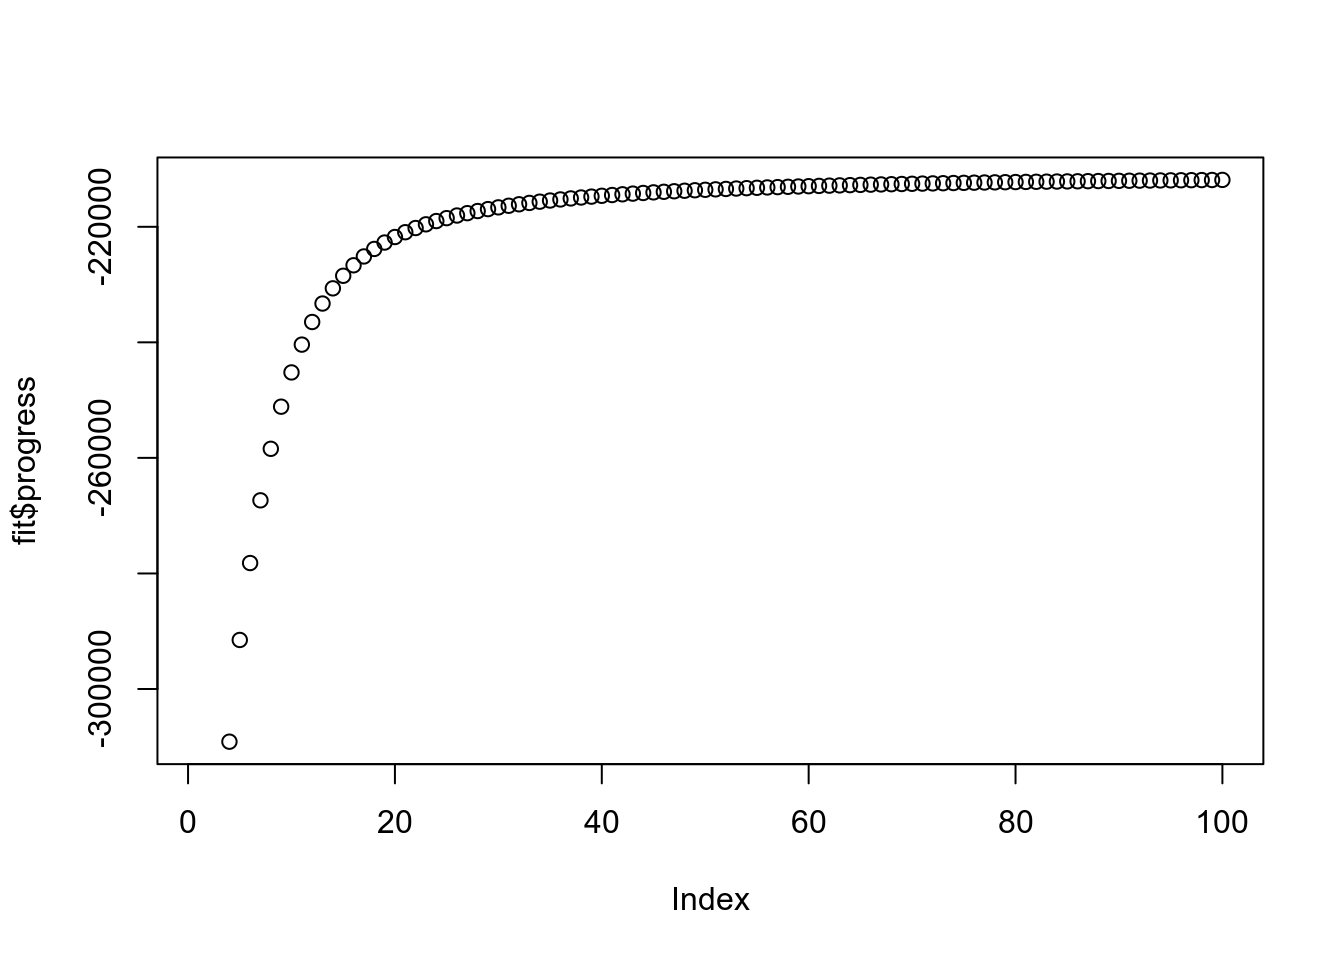
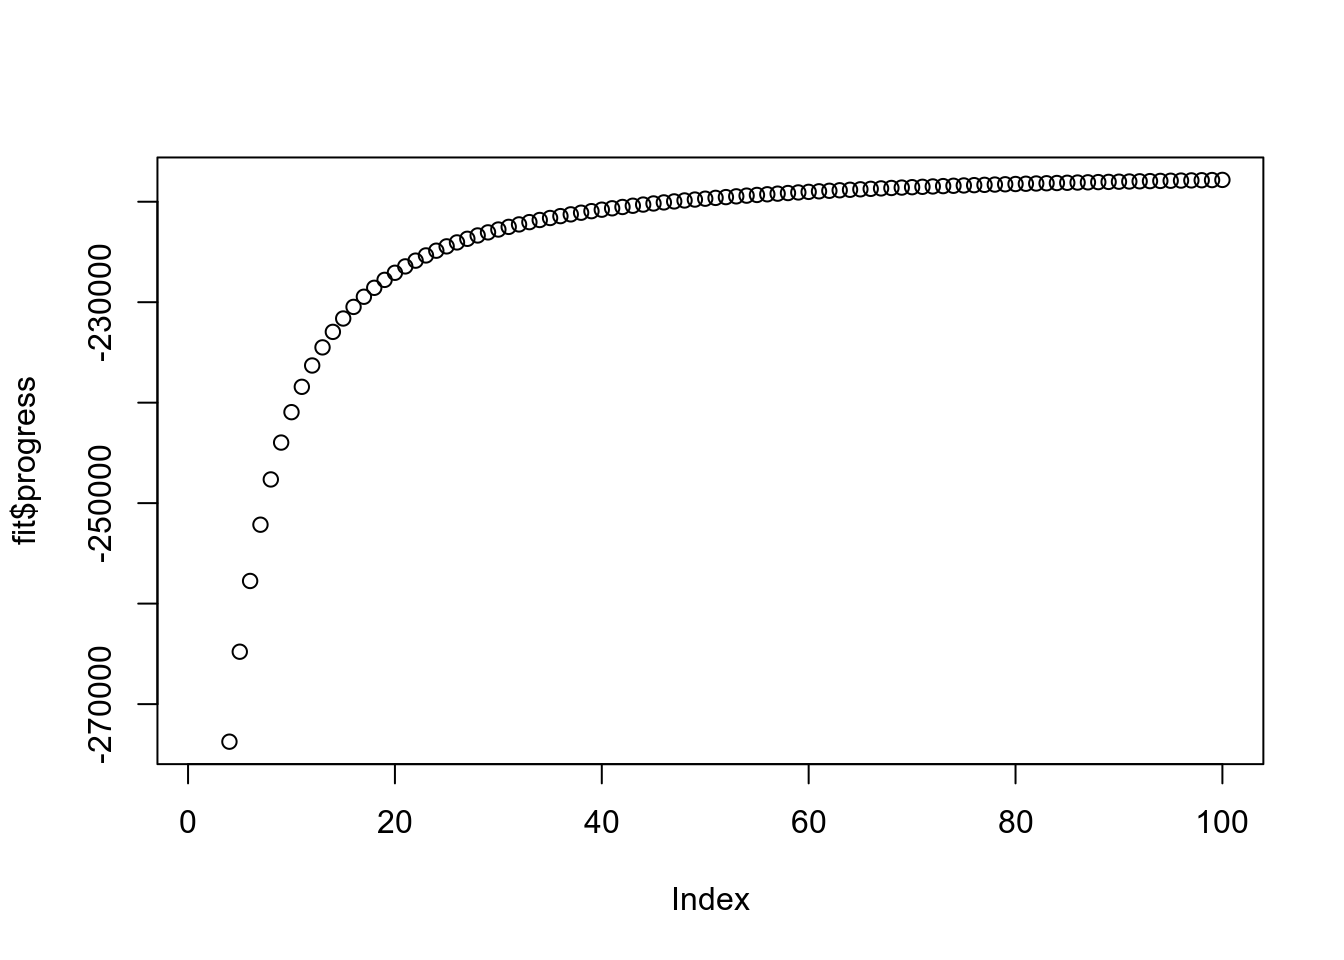
Build site.

diff --git a/docs/experiment_ebpm_bg_kos.html b/docs/experiment_ebpm_bg_kos.html
@@ -394,7 +394,7 @@ div.section {
 
 <p>
 <button type="button" class="btn btn-default btn-workflowr btn-workflowr-report" data-toggle="collapse" data-target="#workflowr-report">
-<span class="glyphicon glyphicon-list" aria-hidden="true"></span> workflowr <span class="glyphicon glyphicon-exclamation-sign text-danger" aria-hidden="true"></span>
+<span class="glyphicon glyphicon-list" aria-hidden="true"></span> workflowr <span class="glyphicon glyphicon-ok text-success" aria-hidden="true"></span>
 </button>
 </p>
 <div id="workflowr-report" class="collapse">
@@ -403,7 +403,7 @@ div.section {
 <a data-toggle="tab" href="#summary">Summary</a>
 </li>
 <li>
-<a data-toggle="tab" href="#checks"> Checks <span class="glyphicon glyphicon-exclamation-sign text-danger" aria-hidden="true"></span> </a>
+<a data-toggle="tab" href="#checks"> Checks <span class="glyphicon glyphicon-ok text-success" aria-hidden="true"></span> </a>
 </li>
 <li>
 <a data-toggle="tab" href="#versions">Past versions</a>
@@ -415,7 +415,7 @@ div.section {
 <strong>Last updated:</strong> 2020-04-30
 </p>
 <p>
-<strong>Checks:</strong> <span class="glyphicon glyphicon-ok text-success" aria-hidden="true"></span> 6 <span class="glyphicon glyphicon-exclamation-sign text-danger" aria-hidden="true"></span> 1
+<strong>Checks:</strong> <span class="glyphicon glyphicon-ok text-success" aria-hidden="true"></span> 7 <span class="glyphicon glyphicon-exclamation-sign text-danger" aria-hidden="true"></span> 0
 </p>
 <p>
 <strong>Knit directory:</strong> <code>ebpmf_demo/</code> <span class="glyphicon glyphicon-question-sign" aria-hidden="true" title="This is the local directory in which the code in this file was executed."> </span>
@@ -479,18 +479,12 @@ This reproducible <a href="http://rmarkdown.rstudio.com">R Markdown</a> analysis
 <div class="panel panel-default">
 <div class="panel-heading">
 <p class="panel-title">
-<a data-toggle="collapse" data-parent="#workflowr-checks" href="#strongCachestrongdetected"> <span class="glyphicon glyphicon-exclamation-sign text-danger" aria-hidden="true"></span> <strong>Cache:</strong> detected </a>
+<a data-toggle="collapse" data-parent="#workflowr-checks" href="#strongCachestrongnone"> <span class="glyphicon glyphicon-ok text-success" aria-hidden="true"></span> <strong>Cache:</strong> none </a>
 </p>
 </div>
-<div id="strongCachestrongdetected" class="panel-collapse collapse">
+<div id="strongCachestrongnone" class="panel-collapse collapse">
 <div class="panel-body">
-The following chunks had caches available:
-<ul>
-<li>
-unnamed-chunk-2
-</li>
-</ul>
-<p>To ensure reproducibility of the results, delete the cache directory <code>experiment_ebpm_bg_kos_cache</code> and re-run the analysis. To have workflowr automatically delete the cache directory prior to building the file, set <code>delete_cache = TRUE</code> when running <code>wflow_build()</code> or <code>wflow_publish()</code>.</p>
+<p>Nice! There were no cached chunks for this analysis, so you can be confident that you successfully produced the results during this run.</p>
 </div>
 </div>
 </div>
@@ -509,10 +503,10 @@ unnamed-chunk-2
 <div class="panel panel-default">
 <div class="panel-heading">
 <p class="panel-title">
-<a data-toggle="collapse" data-parent="#workflowr-checks" href="#strongRepositoryversionstrongahrefhttpsgithubcomzihao12ebpmfdemotree74f7dd27a05c9ae0e2e6c870e80a50fa02dc4c1btargetblank74f7dd2a"> <span class="glyphicon glyphicon-ok text-success" aria-hidden="true"></span> <strong>Repository version:</strong> <a href="https://github.com/zihao12/ebpmf_demo/tree/74f7dd27a05c9ae0e2e6c870e80a50fa02dc4c1b" target="_blank">74f7dd2</a> </a>
+<a data-toggle="collapse" data-parent="#workflowr-checks" href="#strongRepositoryversionstrongahrefhttpsgithubcomzihao12ebpmfdemotreeebd4d2fd4f9a6d979879e3390c349d42beea74abtargetblankebd4d2fa"> <span class="glyphicon glyphicon-ok text-success" aria-hidden="true"></span> <strong>Repository version:</strong> <a href="https://github.com/zihao12/ebpmf_demo/tree/ebd4d2fd4f9a6d979879e3390c349d42beea74ab" target="_blank">ebd4d2f</a> </a>
 </p>
 </div>
[2 lines of base64/hex data omitted]
 <div class="panel-body">
 <p>
 Great! You are using Git for version control. Tracking code development and connecting the code version to the results is critical for reproducibility. The version displayed above was the version of the Git repository at the time these results were generated. <br><br> Note that you need to be careful to ensure that all relevant files for the analysis have been committed to Git prior to generating the results (you can use <code>wflow_publish</code> or <code>wflow_git_commit</code>). workflowr only checks the R Markdown file, but you know if there are other scripts or data files that it depends on. Below is the status of the Git repository when the results were generated:
@@ -527,9 +521,6 @@ Untracked files:
     Untracked:  analysis/current_progress_ebpmf_comparison_cache/
     Untracked:  analysis/demo_sparse_ebpmf_two_gamma_cache/
     Untracked:  analysis/ebpm_two_gamma_speed.Rmd
-    Untracked:  analysis/experiment_ebpm_bg_kos_cache/html/unnamed-chunk-2_1a55e4bbd64bf44fa77029e7d2558f27.RData
-    Untracked:  analysis/experiment_ebpm_bg_kos_cache/html/unnamed-chunk-2_1a55e4bbd64bf44fa77029e7d2558f27.rdb
-    Untracked:  analysis/experiment_ebpm_bg_kos_cache/html/unnamed-chunk-2_1a55e4bbd64bf44fa77029e7d2558f27.rdx
     Untracked:  analysis/experiment_ebpm_gammamix3_cache/
     Untracked:  analysis/experiment_nb_means_cache_0/
     Untracked:  analysis/fast_mle_nb.Rmd
@@ -555,6 +546,9 @@ Unstaged changes:
     Modified:   analysis/current_progress_ebpmf.Rmd
     Modified:   analysis/demo_sparse_ebpmf_two_gamma.Rmd
     Modified:   analysis/ebpm-gh-gamma.Rmd
+    Deleted:    analysis/experiment_ebpm_bg_kos_cache/html/__globals
+    Deleted:    analysis/experiment_ebpm_bg_kos_cache/html/__objects
+    Deleted:    analysis/experiment_ebpm_bg_kos_cache/html/__packages
     Modified:   analysis/experiment_nb_means2_cache/html/unnamed-chunk-3_e597c6819ade97ef860bdf213e288f83.RData
     Modified:   analysis/experiment_nb_means2_cache/html/unnamed-chunk-3_e597c6819ade97ef860bdf213e288f83.rdb
     Modified:   analysis/experiment_nb_means2_cache/html/unnamed-chunk-3_e597c6819ade97ef860bdf213e288f83.rdx
@@ -600,6 +594,40 @@ Message
 </tr>
 </thead>
 <tbody>
+<tr>
+<td>
+Rmd
+</td>
+<td>
+<a href="https://github.com/zihao12/ebpmf_demo/blob/ebd4d2fd4f9a6d979879e3390c349d42beea74ab/analysis/experiment_ebpm_bg_kos.Rmd" target="_blank">ebd4d2f</a>
+</td>
+<td>
+zihao12
+</td>
+<td>
+2020-04-30
+</td>
+<td>
+run kos ebpm bg
+</td>
+</tr>
+<tr>
+<td>
+html
+</td>
+<td>
+<a href="https://rawcdn.githack.com/zihao12/ebpmf_demo/70d83349d21e9c72a65f059718b03062898b9fd3/docs/experiment_ebpm_bg_kos.html" target="_blank">70d8334</a>
+</td>
+<td>
+zihao12
+</td>
+<td>
+2020-04-30
+</td>
+<td>
+Build site.
+</td>
+</tr>
 <tr>
 <td>
 html
@@ -821,7 +849,7 @@ grids= list(al = a_L, bl = a_L)
 
 Lam = t(t(F) * s_k)
 runtime &lt;- system.time(
-  fit &lt;- ebpm_background(Y = Y, s = replicate(K, 1),
+  fit &lt;- ebpm_background(Y = Y, s = s_k,
                 grids = grids, maxiter = maxiter)
 )</code></pre>
 <p>Y has too many rows that are completely 0, which our algo haven’t dealt with specifically!!!</p>
@@ -830,7 +858,7 @@ sum(Y_rs==0)/p</code></pre>
 <pre><code>[1] 0</code></pre>
 <pre class="r"><code>runtime</code></pre>
 <pre><code>   user  system elapsed 
-401.383   0.532 307.735 </code></pre>
+399.009   0.477 307.368 </code></pre>
 <pre class="r"><code>plot(fit$progress)</code></pre>
 <p><img src="figure/experiment_ebpm_bg_kos.Rmd/unnamed-chunk-3-1.png" width="672" style="display: block; margin: auto;" /></p>
 <p>
@@ -932,6 +960,7 @@ zihao12
 </table>
 </div>
 </div>
+<pre class="r"><code>saveRDS(list(Y = Y, fit = fit, runtime = runtime), &quot;analysis/experiment_ebpm_bg_kos_data.Rds&quot;)</code></pre>
 <br>
 <p>
 <button type="button" class="btn btn-default btn-workflowr btn-workflowr-sessioninfo" data-toggle="collapse" data-target="#workflowr-sessioninfo" style="display: block;">
@@ -970,11 +999,11 @@ loaded via a namespace (and not attached):
 [13] xfun_0.12           irlba_2.3.3         git2r_0.26.1       
 [16] gtools_3.8.1        htmltools_0.4.0     yaml_2.2.1         
 [19] digest_0.6.23       rprojroot_1.3-2     numDeriv_2016.8-1.1
-[22] mixsqp_0.3-17       later_1.0.0         promises_1.1.0     
-[25] fs_1.3.1            glue_1.3.1          evaluate_0.14      
-[28] rmarkdown_2.1       stringi_1.4.5       compiler_3.6.3     
-[31] backports_1.1.5     gsl_2.1-6           RcppZiggurat_0.1.5 
-[34] httpuv_1.5.2       </code></pre>
+[22] mixsqp_0.3-17       later_1.0.0         codetools_0.2-16   
+[25] promises_1.1.0      fs_1.3.1            glue_1.3.1         
+[28] evaluate_0.14       rmarkdown_2.1       stringi_1.4.5      
+[31] compiler_3.6.3      backports_1.1.5     gsl_2.1-6          
+[34] RcppZiggurat_0.1.5  httpuv_1.5.2       </code></pre>
 </div>
 </div>
 
